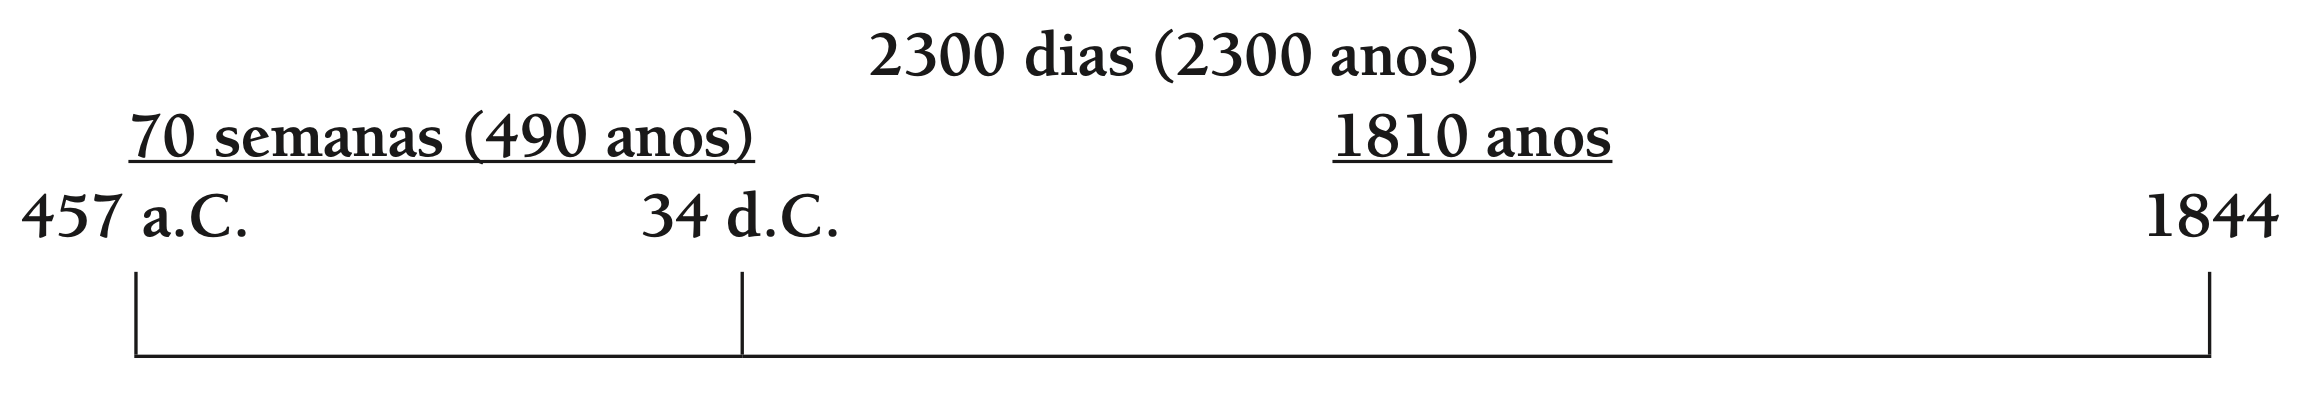
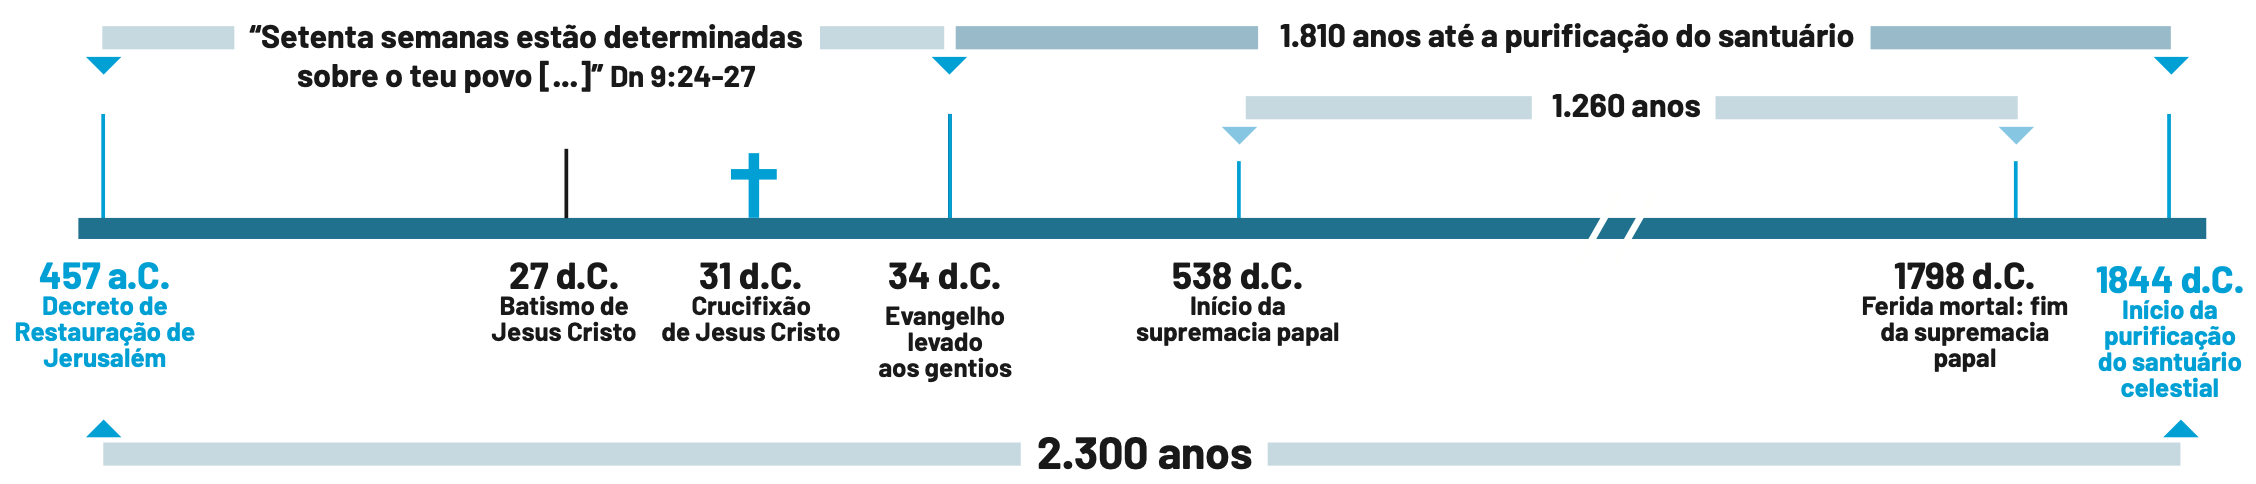
[pt] teacher-comments + fix L07 02/2024

diff --git a/src/pt/2024-02/07/teacher-comments.md b/src/pt/2024-02/07/teacher-comments.md
@@ -1,0 +1,58 @@
+---
+title:  Auxiliar
+date:  17/05/2024
+---
+
+**TEXTO-CHAVE:** Isaías 25:9
+
+**FOCO DO ESTUDO:** Mt 13:30, 38-41; 2Tm 3:13; Mt 24:27, 30, 31; 1Co 15:51-53; 1Ts 4:13-18; Dn 8:14; Dn 7:9-14; Dn 9:20-27; Rm 13:11
+
+#### ESBOÇO
+
+**Introdução:** Um ponto crucial no grande conflito foi a vinda do Messias. Durante o período profético de 70 semanas, o diabo lutou para destruir a fé de Israel na primeira vinda do Messias em cumprimento das promessas, profecias e tipos do Antigo Testamento. Da mesma forma, no fim do período profético de 2.300 anos, as forças do mal tentaram obscurecer seu cumprimento no juízo pré-advento que ocorre no santuário celestial e tentaram suprimir a proclamação da segunda vinda do Messias.
+
+No fim do período profético de 70 semanas, havia um povo fiel a Deus, como Simeão, que esperava “a consolação de Israel” (Lc 2:25, NVI) ou Ana e outros “que esperavam a redenção de Jerusalém” (Lc 2:38, NVI). Esses poucos fiéis viram em Jesus o cumprimento da promessa da primeira vinda do Messias. Da mesma forma, havia, no fim dos 2.300 anos, pessoas de fé, como Guilherme Miller, cuja mensagem da “verdade presente” direcionava para a esperança do iminente advento do Messias. Guilherme Miller não descobriu essa mensagem por meio de uma metodologia filosófica, mas por causa de uma leitura literal das Escrituras. Isso ilustra, mais uma vez, a importância das Escrituras para o grande conflito.
+
+**Temas da lição:** Este estudo focaliza dois grandes temas:
+
+Ainda que as profecias bíblicas não apresentem a data e o ano exatos da segunda vinda de Cristo, as profecias das 70 semanas e dos 2.300 dias, vinculadas tanto à primeira quanto à segunda vinda de Jesus, foram cumpridas com precisão. Esse cumprimento rigoroso nos confirma a certeza e a proximidade da segunda vinda de Cristo.
+
+Deus chamou a comunidade adventista com o propósito de anunciar globalmente o cumprimento da profecia mais extensa da Bíblia. Além disso, Ele os incumbiu de convocar a humanidade a acolher a esperança da segunda vinda de Jesus, que põe fim de maneira definitiva ao grande conflito.
+
+#### COMENTÁRIO
+
+**Encontrando esperança no pré-milenismo**
+
+Esperança e otimismo enchiam a atmosfera dos Estados Unidos do século 19, a nação emergente nascida da notável Revolução Americana. Esse período testemunhou uma série de transformações e avanços nos âmbitos social, econômico, político e tecnológico, sinalizando a chegada de uma era nova. O espírito da época influenciou os cristãos evangélicos protestantes do país, deixando uma marca nas crenças e nas próprias instituições religiosas. O resultado foi um cristianismo pós-milenista que possuía um fervor escatológico esperançoso e otimista.
+
+Mas o que é o pós-milenismo? Milenarismo vem da palavra “milênio”, que se refere aos mil anos do reinado de Cristo com os santos, conforme Apocalipse 20:1-6 descreve. Embora a maioria dos cristãos aceite esse ensino bíblico sobre o milênio, nem todos concordam em como relacioná-lo com a segunda vinda de Jesus e o Juízo Final.
+
+Os primeiros teólogos pós-apostólicos – os pais apostólicos – adotaram o pré-milenismo, a crença de que Cristo retornaria à Terra antes do milênio e executaria o último julgamento. (Os adventistas, é claro, entendem que o milênio será no Céu). No entanto, logo os pais da igreja subsequentes, como Orígenes de Alexandria (185-253/254 d.C.) e Agostinho de Hipona (354-430 d.C.), integraram a filosofia grega com a teologia cristã e aplicaram o método alegórico à leitura e interpretação da Bíblia. Consequentemente, eles rejeitaram o pré-milenismo como uma leitura ingênua e superficial do Livro do Apocalipse e propuseram, em vez disso, uma nova teoria do milênio, que mais tarde foi chamada de amilenismo.
+
+De acordo com essa teoria, o milênio deve ser entendido de modo alegórico ou espiritual. Como na filosofia grega, que postulou que o tempo não tem relevância particular para a espiritualidade ou para a esfera etérea da existência, esses pais da igreja concluíram que o milênio se refere ao período da igreja que decorre entre a primeira e a segunda vinda de Jesus. Por isso, esse período de tempo não é passado nem futuro, mas representa toda a era cristã. Durante esse tempo, Cristo reina espiritualmente com as almas dos santos mortos no Céu, bem como com a igreja na Terra. Essa última é o reino de Deus neste planeta. Cristo trabalha para estabelecer Sua igreja até os confins da Terra, diminuindo assim o poder do diabo. No entanto, antes da segunda vinda de Cristo, Satanás corromperá a igreja, resultando na ascensão do anticristo. Nesse momento Jesus voltará e irá salvar a igreja do anticristo e executará o juízo final, restabelecendo assim uma nova ordem de coisas. Essa posição foi adotada pela Igreja Católica Romana, igrejas ortodoxas e por algumas denominações protestantes, como as igrejas luterana, anglicana e presbiteriana.
+
+**Pós-milenismo**
+
+O pós-milenismo surgiu como uma derivação do amilenismo entre as igrejas protestantes do século 19, as quais o adaptaram à sua realidade contemporânea. Semelhante aos amilenistas, os pós-milenistas acreditavam que Cristo retornaria no fim do milênio. No entanto, ao contrário dos amilenistas, a maioria dos pós-milenistas pensava que o milênio representava mil anos literais. Esse período não representa toda a era cristã, mas apenas os últimos mil anos antes do retorno de Cristo. Durante esse tempo, Cristo trabalhará por meio do Espírito Santo e da igreja para espalhar o evangelho por todo o mundo a fim de estabelecer Seu reino milenar. À medida que a maior parte da população da Terra aceitasse o evangelho, o poder e o controle do diabo diminuiriam, e o mundo entraria gradualmente em sua era de ouro, um período de paz, retidão, justiça, amor e prosperidade que serviria como uma amostra da vinda do reino eterno de Deus. Demonstrando um otimismo marcante a respeito da essência do ser humano e da sociedade, os adeptos do pós-milenismo não anteviram um cenário em que a igreja se tornaria corrompida, ou em que o anticristo dominasse e oprimisse tanto a igreja quanto o mundo. Conforme sua visão, o milênio seria seguido pela segunda vinda de Cristo, a ressurreição geral, o Juízo Final e a instauração do reino divino eterno.
+
+A julgar pelo sucesso do evangelho no mundo durante o século 18, os pós-milenistas do século 19 concluíram que o milênio ainda estava no futuro, e muito embora fosse um futuro muito próximo, era iminente. Além disso, uma vez que o reino milenar seria inaugurado por meio da igreja por Cristo, os protestantes empenharam-se e começaram a trabalhar arduamente com o propósito de concretizar o milênio, aspirando alcançá-lo enquanto ainda estivessem vivos. Mudança e progresso encheram o ar da América do Norte. Um número crescente de sociedades bíblicas publicou Bíblias e literatura cristã. Missionários foram enviados ao exterior para preparar o mundo para que aceitassem o evangelho e entrassem no reino milenar. Paralelamente a esse desenvolvimento, um número crescente de invenções tecnológicas contribuiu para o aumento da qualidade de vida na América do Norte e em todo o mundo. As organizações de temperança dedicavam seus esforços a aprimorar a saúde das pessoas ao promover a abstenção do consumo de álcool. Observando a ausência de grandes guerras, os partidos políticos e todos os tipos de movimentos sociais clamaram por profundas mudanças sociais compatíveis com o estabelecimento do reino milenar de Deus.
+
+No entanto, nem todos se deixaram levar pelo fervor pós-milenista predominante. As concepções pré-milenistas originais dos apóstolos e dos primeiros líderes da igreja foram revividas pelos reformadores anabatistas no século 16; posteriormente, essas ideias foram perpetuadas por alguns evangélicos ingleses no século 18 e, por fim, começaram a ganhar preeminência na América do Norte ao longo da primeira metade do século 19. Nesse período, os maiores promotores do pré-milenismo bíblico foram Guilherme Miller e, após o Grande Desapontamento, os adventistas do sétimo dia. Assim como os pós-milenistas, os pré-milenistas adventistas acreditavam que o milênio representava mil anos literais, que ele ainda estava no futuro e começaria em breve.
+
+**Os adventistas do sétimo dia**
+
+Ao contrário dos pós-milenistas, no entanto, os pré-milenistas adventistas do sétimo dia entenderam, conforme leram na Bíblia, que as coisas iriam piorar para o povo de Deus antes do Dia do Senhor (2Pe 3:3-13), que Jesus viria antes do milênio (Ap 19:11-16) para salvar Sua igreja perseguida, ressuscitar Seus fiéis e levá-los todos com Ele para o Céu (1Ts 4:13-18). Lá, o povo de Deus não apenas reinaria com Cristo (Ap 20:4, 6), como também participaria com Deus no julgamento dos ímpios (Ap 20:4; 1Co 6:2). Durante esse tempo, a Bíblia descreve que o diabo será “preso por mil anos” (Ap 20:2) na Terra para que ele “não mais engane as nações” (Ap 20:3, ARA). Essas nações constituem os ímpios que não ressuscitarão até o fim dos mil anos (Ap 20:2, 3, 5). Uma vez terminado o julgamento milenar, Jesus retorna ao planeta Terra com todos os Seus santos. Ele ressuscita os ímpios (Ap 20:5, 7, 13) e executa o juízo final (Ap 20:11, 12). O diabo tenta enganar os ímpios uma última vez para incitá-los a lutar contra Deus e tomar o Seu reino à força (Ap 20:7-9). Esse evento é o auge do grande conflito, pois Cristo executa o juízo, e os ímpios, o diabo e o mal, bem como a própria morte, são todos lançados no “lago de fogo e enxofre” (Ap 20:9, 10, 14, 15, ARA) e são aniquilados para sempre.
+
+Miller e os adventistas do sétimo dia não partilhavam do otimismo exibido por seus contemporâneos pós-milenistas em relação à essência humana e ao futuro próximo, que se desenhava radiante e utópico para a humanidade. Contudo, essa posição não derivava do fato de Miller e os adventistas serem por natureza antissociais, pessimistas ou negativos e, portanto, incapazes de se alegrar com o progresso e a esperança da humanidade. Em vez disso, Miller e os adventistas do sétimo dia chegaram à compreensão pré-milenista a partir do estudo sólido, literal e histórico-gramatical da Bíblia. Por essa razão, eles rejeitaram tanto o amilenismo quanto o pós-milenismo. Afinal, essas doutrinas estavam enraizadas não na Bíblia, mas nas pressuposições da filosofia grega antiga ou de estudos socioeconômicos e políticos contemporâneos. As postulações dos amilenistas ou pós-milenistas não apenas não existem na Bíblia, mas vão contra os ensinamentos dela, distorcendo assim o evangelho e gerando falsas esperanças. Miller e os adventistas do sétimo dia ansiavam por esperança, mas queriam que ela fosse construída sobre o sólido fundamento da Palavra de Deus.
+
+Em um curto espaço de algumas décadas, as duas guerras mundiais e a Guerra Fria do século 20 desmantelaram o otimismo pós-milenista que envolvia a visão da natureza humana e da gradual instauração da humanidade no reino milenar de paz e prosperidade de Deus. A maioria dos evangélicos retornou ao pré-milenismo. No entanto, é importante notar que esse ressurgimento do pré-milenismo foi transformado e distorcido, dando origem ao ensinamento antibíblico do dispensacionalismo. Todavia, o simples fato de que os evangélicos retornaram ao pré-milenismo indica que o amilenismo e o pós-milenismo não são apenas antibíblicos, mas uma exegese inadequada e decepcionante dos eventos do fim dos tempos. O pré-milenismo bíblico é o único fundamento para a esperança. Ele ensina que, embora a humanidade não possa salvar a si mesma ou ao mundo, Jesus voltará no momento mais difícil da história. Antes do milênio, Ele nos salvará dos ataques finais do diabo e de seu exército e conduzirá o grande conflito para o fim.
+
+#### APLICAÇÃO PARA A VIDA
+
+`Como a segunda vinda de Jesus Cristo traz esperança ao seu contexto religioso e cultural? Como você pode explicar aos seus vizinhos que a volta de Jesus é a única esperança da humanidade?`
+
+`Quão relevante é o cumprimento das profecias bíblicas de tempo (como a dos 2.300 anos) em seu contexto religioso e cultural? Pense e proponha maneiras pelas quais você pode torná-las relevante para as pessoas de sua comunidade.`
+
+`Guilherme Miller desenvolveu um modo específico de ler e entender a Bíblia. Qual é o seu modelo de leitura e interpretação das Escrituras? Desenvolva e compartilhe com a classe da Escola Sabatina sua maneira de interpretar e aplicar o significado da Palavra de Deus. Compartilhe como os ensinos bíblicos não apenas impactaram sua vida, mas também influenciaram positivamente sua família e sua comunidade.`
+
+`Notas`

diff --git a/src/pt/2024-02-pt/07/05.md b/src/pt/2024-02-pt/07/05.md
@@ -11,7 +11,7 @@ William Miller observou que eventos preditos pelos profetas tinham sido cumprido
 
 `Leia Daniel 8:14. Que acontecimento devia ter lugar no fim dos 2300 dias?`
 
-William Miller aceitava a ideia popular de que “a purificação do santuário” era a purificação da Terra pelo fogo. Estudou diligentemente as Escrituras para entender um evento de tão espantosa importância. Descobriu a ligação entre Daniel 8 e Daniel 9. Em Daniel 8, o anjo foi instruído a “dar a entender a este a visão” (Dan. 8:16). No fim do capítulo, a única porção de toda a visão de Daniel que ficou inexplicada (ver Dan. 8:27) foi a parte relativa aos 2300 dias. Mais tarde, o anjo voltou a encontrar-se com Daniel e declarou: “Daniel, agora saí para fazer-te entender o sentido” (Dan. 9:22, ver também 9:23, 25-27). Isto foi para o ajudar a compreender os 2300 dias.
+William Miller aceitava a ideia popular de que “a purificação do santuário” era a purificação da Terra pelo fogo. Estudou diligentemente as Escrituras para entender um evento de tão espantosa importância. Descobriu a ligação entre Daniel 8 e Daniel 9. Em Daniel 8, o anjo foi instruído a “dar a entender a este a visão” (Dan. 8:16). No fim do capítulo, a única porção de toda a visão de Daniel que ficou inexplicada (ver Dan. 8:27) foi a parte relativa aos 2300 dias. Mais tarde, o anjo voltou a encontrar-se com Daniel e declarou: “Daniel, agora saí para fazer-te entender o sentido” (Dan. 9:22, ver também Dan. 9:23, 25-27). Isto foi para o ajudar a compreender os 2300 dias.
 
 Sabemos isto porque, depois de pedir a Daniel “toma, pois, bem sentido na palavra e entende a visão” (Dan. 9:23), as primeiras palavras do anjo foram: “Setenta semanas estão determinadas sobre o teu povo, e sobre a tua santa cidade” (Dan. 9:24). A palavra traduzida como “determinadas” literalmente significa “separadas, cortadas”. Setenta semanas, 490 anos, devem ser cortadas. Mas do quê? Da visão dos 2300 dias, obviamente – a única parte de Daniel 8 que Daniel não entendeu, e que agora o anjo veio explicar.
 
